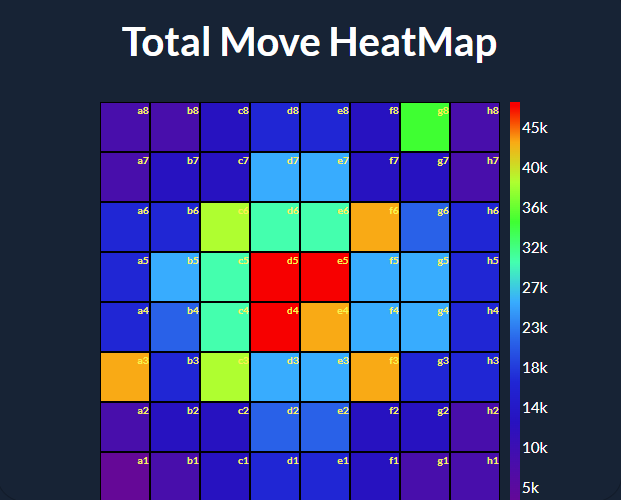
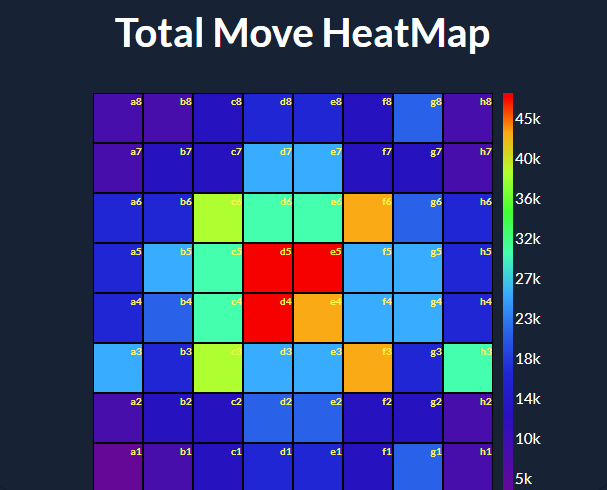
heatmap fix

Changed region(s): [[0.1483, 0.1837, 0.8896, 1.0], [0.1779, 0.0306, 0.8303, 0.1224], [0.5338, 0.9184, 0.5634, 0.949]]

diff --git a/src/generate_heatmap/main.py b/src/generate_heatmap/main.py
@@ -36,7 +36,7 @@ def get_file_number(column):
         case _:
             return -1
 
-def get_square(move):
+def get_square(move, color):
     """
     Get the square of the move
 
@@ -47,12 +47,10 @@ def get_square(move):
     list: The square
     """
 
-    color = "w" if move[0] == move[0].upper() else "b"
-
     if "O-O" in move:
-        return [6, 0, 5, 0] if color == "w" else [6, 7, 5, 7]
+        return [6, 0, 5, 0] if color == "b" else [6, 7, 5, 7]
     elif "O-O-O" in move:
-        return [2, 0, 3, 0] if color == "w" else [2, 7, 3, 7]
+        return [2, 0, 3, 0] if color == "b" else [2, 7, 3, 7]
 
     if "=" in move:
         if "x" in move:
@@ -84,38 +82,14 @@ def get_heatmap_data():
 
     for _, row in GAME_DATA.iterrows():
         moves = row['moves'].split(" ")
-        for move in moves:
-            square = get_square(move)
+        for index, move in enumerate(moves):
+            square = get_square(move, "w" if index % 2 == 0 else "b")
             heatmap_data[square[1]][square[0]] += 1
             if len(square) > 2:
                 heatmap_data[square[2]][square[3]] += 1
 
     return heatmap_data
 
-
-def get_first_move_data():
-    """
-    Get first move data
-
-    Returns:
-    list: The first move data
-    """
-
-    first_move_data = [[0 for _ in range(8)] for _ in range(8)]
-
-    for _, row in GAME_DATA.iterrows():
-        moves = row['moves'].split(" ")
-        white_move = moves[0]
-        white_square = get_square(white_move)
-        first_move_data[white_square[1]][white_square[0]] += 1
-        if len(moves) < 2:
-            continue
-        
-        black_move = moves[1]
-        black_square = get_square(black_move)
-        first_move_data[black_square[1]][black_square[0]] += 1
-
-    return first_move_data
 
 def get_piece_from_move(move):
     """
@@ -155,7 +129,7 @@ def get_first_move_data_by_piece(piece):
     for _, row in GAME_DATA.iterrows():
         moves = row['moves'].split(" ")
         white_move = moves[0]
-        white_square = get_square(white_move)
+        white_square = get_square(white_move, "w")
         if get_piece_from_move(white_move) == piece:
             first_move_data[white_square[1]][white_square[0]] += 1
 
@@ -163,7 +137,7 @@ def get_first_move_data_by_piece(piece):
             continue
         
         black_move = moves[1]
-        black_square = get_square(black_move)
+        black_square = get_square(black_move, "b")
         if get_piece_from_move(black_move) == piece:
             first_move_data[black_square[1]][black_square[0]] += 1
 
@@ -171,9 +145,6 @@ def get_first_move_data_by_piece(piece):
 if __name__ == "__main__":
     with open('board_heatmap_data.txt', 'w') as f:
         f.write(str(get_heatmap_data()))
-    
-    with open('first_move_data.txt', 'w') as f:
-        f.write(str(get_first_move_data()))
     
     with open('first_pawn_move_data.txt', 'w') as f:
         f.write(str(get_first_move_data_by_piece("P")))

diff --git a/src/pages/board.py b/src/pages/board.py
@@ -1,7 +1,7 @@
 from taipy.gui import Markdown
 import pandas as pd
 
-BOARD_DATA = "4857,7322,9908,14454,13997,10247,33649,5855,5221,10305,11607,23388,24844,12535,12867,6571,14307,15498,38283,27047,27660,42652,18779,15933,14044,23664,28632,46990,46824,23813,26006,15273,13890,21438,30769,48608,44095,25063,24110,14834,40105,15702,36837,24877,23471,43422,17203,14682,5181,9271,11201,21750,21259,11041,10223,6456,4648,7385,9355,14092,14740,9605,5938,5591,0,Total Move HeatMap"
+BOARD_DATA = "4857,7322,9908,14454,13997,10247,19447,5855,5221,10305,11607,23388,24844,12535,12867,6571,14307,15498,38283,27047,27660,42652,18779,15933,14044,23664,28632,46990,46824,23813,26006,15273,13890,21438,30769,48608,44095,25063,24110,14834,25903,15702,36837,24877,23471,43422,17203,28884,5181,9271,11201,21750,21259,11041,10223,6456,4648,7385,9355,14092,14740,9605,20140,5591,0,Total Move HeatMap"
 
 FIRST_PAWN_MOVE_DATA = "0,0,0,0,0,0,0,0,0,0,0,0,0,0,0,0,50,286,734,543,2083,41,387,19,23,25,2881,3667,6988,166,18,24,28,88,716,4522,12596,166,38,33,27,173,56,131,416,23,186,14,0,0,0,0,0,0,0,0,0,0,0,0,0,0,0,0,1,First Pawn Move HeatMap"
 FIRST_KNIGHT_MOVE_DATA = "0,0,0,0,0,0,0,0,0,0,0,0,0,0,0,0,6,0,392,0,0,1693,0,12,0,0,0,0,0,0,0,0,0,0,0,0,0,0,0,0,4,0,99,0,0,725,0,15,0,0,0,0,0,0,0,0,0,0,0,0,0,0,0,0,1,First Knight Move HeatMap"
